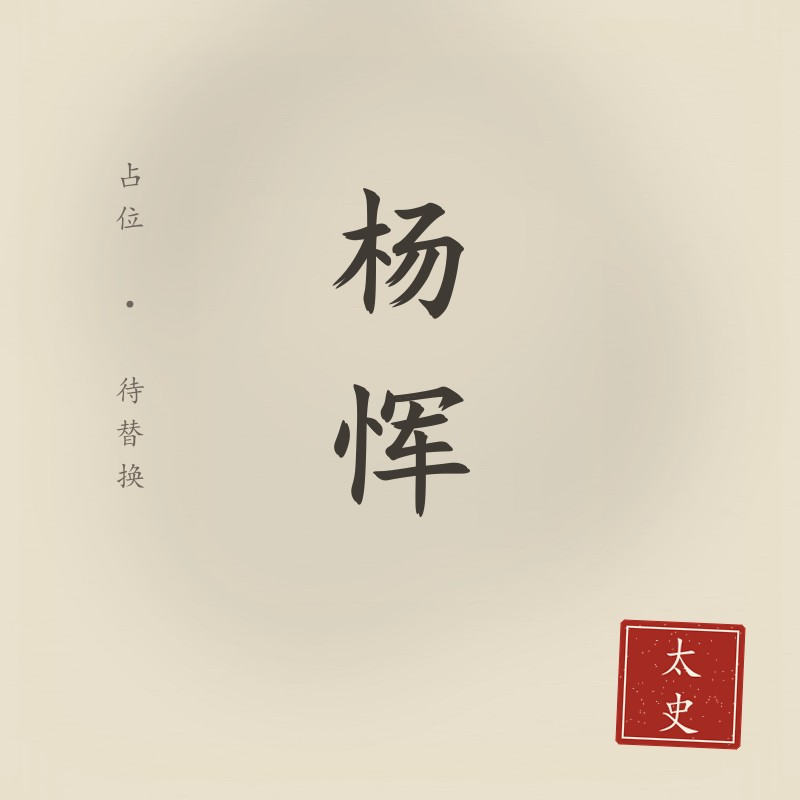
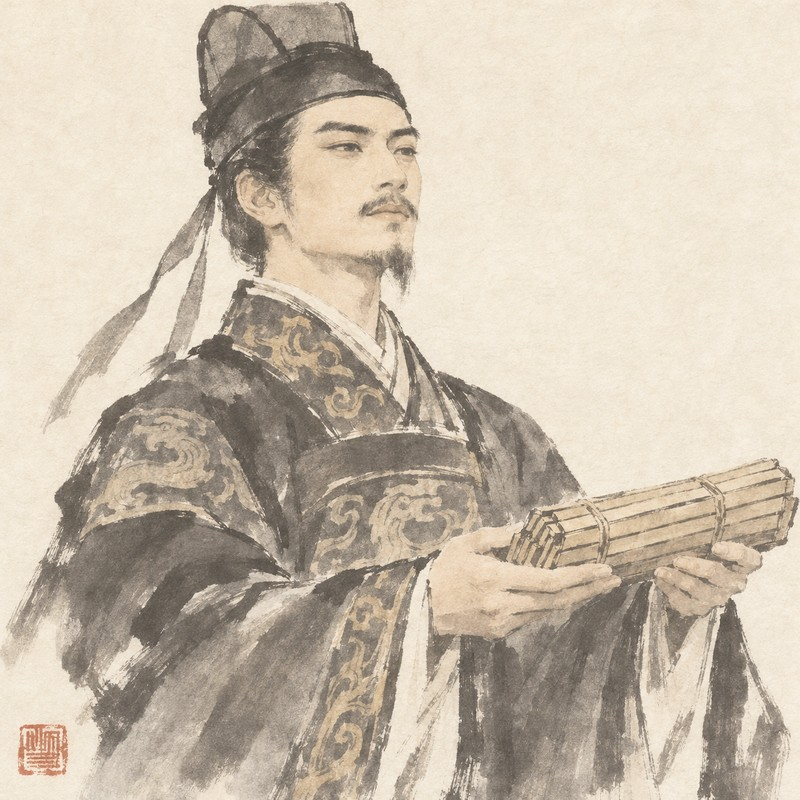
美术：首批 6 张场景图 + 杨恽立绘入库（调色适配），新增 art_grade 工具
- assets/scene/L1 L2A L3 A1 A2 A3（1920×1080）+ assets/webp/scene/*.webp
- assets/char/char_yangyun.jpg 换成真立绘 + webp
- tools/art_grade.py：按节点目标中间调做 gamma 提亮、降饱和、冷暗部/暖高光分区调色、
  轻对比/暗角；人物卡单独向现有 6 张宣纸纸色靠
- tools/art-batch-map.json：本批出图→节点 id 映射与调色目标
- js/data/scene-art.js：清单 6/22；其余 16 页继续回退共用背景
- docs/art-brief.md / README：补调色步骤与新体积（38 张 14.95MB→6.42MB，省 57.1%）

diff --git a/js/data/scene-art.js b/js/data/scene-art.js
@@ -11,6 +11,26 @@
       "L1": {
         "jpg": "assets/scene/L1.jpg",
         "webp": "assets/webp/scene/L1.webp"
+      },
+      "L2A": {
+        "jpg": "assets/scene/L2A.jpg",
+        "webp": "assets/webp/scene/L2A.webp"
+      },
+      "L3": {
+        "jpg": "assets/scene/L3.jpg",
+        "webp": "assets/webp/scene/L3.webp"
+      },
+      "A1": {
+        "jpg": "assets/scene/A1.jpg",
+        "webp": "assets/webp/scene/A1.webp"
+      },
+      "A2": {
+        "jpg": "assets/scene/A2.jpg",
+        "webp": "assets/webp/scene/A2.webp"
+      },
+      "A3": {
+        "jpg": "assets/scene/A3.jpg",
+        "webp": "assets/webp/scene/A3.webp"
       }
     },
     "webp": {
@@ -45,7 +65,12 @@
       "assets/ending/ending_12.jpg": "assets/webp/ending/ending_12.webp",
       "assets/ending/ending_13.jpg": "assets/webp/ending/ending_13.webp",
       "assets/mural.jpg": "assets/webp/mural.webp",
+      "assets/scene/A1.jpg": "assets/webp/scene/A1.webp",
+      "assets/scene/A2.jpg": "assets/webp/scene/A2.webp",
+      "assets/scene/A3.jpg": "assets/webp/scene/A3.webp",
       "assets/scene/L1.jpg": "assets/webp/scene/L1.webp",
+      "assets/scene/L2A.jpg": "assets/webp/scene/L2A.webp",
+      "assets/scene/L3.jpg": "assets/webp/scene/L3.webp",
       "assets/title.jpg": "assets/webp/title.webp"
     }
   };

diff --git a/tools/art_grade.py b/tools/art_grade.py
@@ -1,0 +1,179 @@
+#!/usr/bin/env python3
+# -*- coding: utf-8 -*-
+"""美术资产调色/归一化（开发期工具，Pillow + numpy）。
+
+作者用 GPT 出的图往往比项目现有背景更暗、更暖、更"新"，直接入库会在
+页面切换时跳色。这个脚本做两件事：
+
+  1. 归一化：场景图中心裁切到 16:9 → 1920×1080；人物卡中心裁切 800×800。
+  2. 调色（只动颜色，不动构图）：
+     - 按 id 指定目标中间调，做 gamma 提亮/压暗（默认只对偏暗的图提亮）；
+     - 轻微降饱和（向亮度混合，保留火盆/灯的暖色）；
+     - 冷暗部 / 暖高光的分区调色，贴近现有 bg 的冷青灰 + 暖灯金；
+     - 很轻的对比、S 曲线、暗角，以及高光滚降。
+  3. 可选 --install：把结果写进 assets/scene/<id>.jpg 与 assets/char/。
+
+用法（项目根运行）：
+    python tools/art_grade.py                 # 只输出到 analysis/graded 预览
+    python tools/art_grade.py --install       # 预览 + 写入项目 assets
+    python tools/art_grade.py --src "D:/新图" --map tools/art-batch-map.json
+
+映射文件 art-batch-map.json：
+    [
+      {"file": "ChatGPT ...png", "id": "L2A", "type": "scene", "target_p50": 0.22},
+      {"file": "...", "id": "yangyun", "type": "char"},
+      {"file": "...", "id": "L1", "skip": true}
+    ]
+"""
+import argparse
+import json
+import os
+import shutil
+import sys
+
+import numpy as np
+from PIL import Image, ImageOps
+
+ROOT = os.path.dirname(os.path.dirname(os.path.abspath(__file__)))
+DEFAULT_MAP = os.path.join(ROOT, 'tools', 'art-batch-map.json')
+DEFAULT_OUT = os.path.join(ROOT, 'analysis', 'graded')
+
+
+def luma(rgb):
+    return 0.299 * rgb[:, :, 0] + 0.587 * rgb[:, :, 1] + 0.114 * rgb[:, :, 2]
+
+
+def smoothstep(x, a, b):
+    t = np.clip((x - a) / max(b - a, 1e-6), 0.0, 1.0)
+    return t * t * (3 - 2 * t)
+
+
+def grade_scene(im, target_p50=0.18, strength=1.0):
+    """只调色：曝光、去饱和、冷暗部/暖高光、轻对比与暗角。"""
+    a = np.asarray(im.convert('RGB')).astype(np.float32) / 255.0
+    L = luma(a)
+    p50 = float(np.percentile(L, 50))
+    # 1) 以中间调为锚的 gamma 提亮/压暗（blend 避免过冲）
+    if p50 > 1e-3 and target_p50 > 0:
+        gamma = np.log(target_p50) / np.log(max(p50, 0.02))
+        gamma = float(np.clip(gamma, 0.55, 1.8))
+        gamma = 1.0 + (gamma - 1.0) * 0.75 * strength
+        a = np.clip(a, 0, 1) ** gamma
+    # 2) 轻微降饱和（保留高饱和暖色区域）
+    L2 = luma(a)[:, :, None]
+    a = L2 + (a - L2) * (1.0 - 0.20 * strength)
+    # 3) 冷暗部 / 暖高光的分区调色
+    L3 = luma(a)
+    shadow = (1.0 - smoothstep(L3, 0.0, 0.42))[:, :, None]
+    high = smoothstep(L3, 0.55, 1.0)[:, :, None]
+    a = a + shadow * np.array([-0.010, -0.001, 0.020], np.float32) * strength
+    a = a + high * np.array([0.014, 0.004, -0.010], np.float32) * strength
+    # 4) 轻对比 + 高光滚降
+    a = (a - 0.45) * (1.0 + 0.035 * strength) + 0.45
+    a = 1.0 - np.power(np.clip(1.0 - a, 0, 1), 1.02)
+    # 5) 很轻的暗角
+    h, w = a.shape[:2]
+    yy, xx = np.mgrid[0:h, 0:w].astype(np.float32)
+    cx, cy = (w - 1) / 2.0, (h - 1) / 2.0
+    r = np.sqrt(((xx - cx) / cx) ** 2 + ((yy - cy) / cy) ** 2)
+    vig = 1.0 - np.clip((r - 0.55) / 0.95, 0, 1) ** 2 * 0.16 * strength
+    a = a * vig[:, :, None]
+    return Image.fromarray((np.clip(a, 0, 1) * 255).astype(np.uint8), 'RGB')
+
+
+def grade_char(im, strength=1.0):
+    """人物卡：宣纸暖白底 + 淡彩，向现有 6 张卡的纸色/亮度靠。"""
+    a = np.asarray(im.convert('RGB')).astype(np.float32) / 255.0
+    L = luma(a)
+    p50 = float(np.percentile(L, 50))
+    # 纸底提亮（现有卡 p50 约 0.85–0.90）
+    if p50 > 1e-3:
+        gamma = np.log(0.87) / np.log(max(p50, 0.02))
+        gamma = float(np.clip(gamma, 0.6, 1.6))
+        gamma = 1.0 + (gamma - 1.0) * 0.7 * strength
+        a = np.clip(a, 0, 1) ** gamma
+    # 纸色：现有卡 mean 约 (200,190,175)
+    m = a.reshape(-1, 3).mean(axis=0)
+    target = np.array([0.784, 0.745, 0.686], np.float32)  # 200,190,175 / 255
+    if m.min() > 1e-3:
+        gain = np.clip(target / m, 0.75, 1.35)
+        a = np.clip(a * (1.0 + (gain - 1.0) * 0.65 * strength), 0, 1)
+    # 轻微降饱和，保留墨色层次
+    L2 = luma(a)[:, :, None]
+    a = L2 + (a - L2) * (1.0 - 0.10 * strength)
+    # 轻对比 + 纸面暖调
+    a = (a - 0.5) * (1.0 + 0.03 * strength) + 0.5
+    a = a + np.array([0.006, 0.002, -0.006], np.float32) * strength
+    return Image.fromarray((np.clip(a, 0, 1) * 255).astype(np.uint8), 'RGB')
+
+
+def normalize_scene(im):
+    return ImageOps.fit(im.convert('RGB'), (1920, 1080), method=Image.LANCZOS, centering=(0.5, 0.5))
+
+
+def normalize_char(im):
+    return ImageOps.fit(im.convert('RGB'), (800, 800), method=Image.LANCZOS, centering=(0.5, 0.5))
+
+
+def stat_line(label, im):
+    a = np.asarray(im.convert('RGB')).astype(np.float32) / 255.0
+    L = luma(a)
+    p5, p50, p95 = np.percentile(L, [5, 50, 95])
+    hsv = np.asarray(im.convert('HSV')).astype(np.float32)
+    return ('%s  meanRGB=(%3.0f,%3.0f,%3.0f) S=%3.0f V=%3.0f  L p5/p50/p95=%.2f/%.2f/%.2f' % (
+        label, a[:, :, 0].mean() * 255, a[:, :, 1].mean() * 255, a[:, :, 2].mean() * 255,
+        hsv[:, :, 1].mean(), hsv[:, :, 2].mean(), p5, p50, p95))
+
+
+def main():
+    ap = argparse.ArgumentParser()
+    ap.add_argument('--src', default=r'C:\Users\CuteGrass\Desktop\assest', help='作者出图的源目录')
+    ap.add_argument('--map', default=DEFAULT_MAP, help='映射 json')
+    ap.add_argument('--out', default=DEFAULT_OUT, help='预览输出目录')
+    ap.add_argument('--install', action='store_true', help='把结果写入 assets/scene 与 assets/char')
+    ap.add_argument('--strength', type=float, default=1.0, help='调色强度 0–1.5，默认 1')
+    args = ap.parse_args()
+
+    with open(args.map, encoding='utf-8') as f:
+        mapping = json.load(f)
+    os.makedirs(args.out, exist_ok=True)
+
+    scene_dir = os.path.join(ROOT, 'assets', 'scene')
+    char_dir = os.path.join(ROOT, 'assets', 'char')
+    os.makedirs(scene_dir, exist_ok=True)
+    os.makedirs(char_dir, exist_ok=True)
+
+    for item in mapping:
+        if item.get('skip'):
+            print('跳过（已入库/已认可）:', item.get('file'))
+            continue
+        src = os.path.join(args.src, item['file'])
+        if not os.path.exists(src):
+            print('  [缺失]', src)
+            continue
+        im = Image.open(src)
+        before = im.copy()
+        if item.get('type') == 'char':
+            out = grade_char(normalize_char(im), args.strength)
+        else:
+            out = grade_scene(normalize_scene(im), float(item.get('target_p50', 0.18)), args.strength)
+        print('  ' + stat_line('before ' + str(item.get('id')), before))
+        print('  ' + stat_line('after  ' + str(item.get('id')), out))
+        if item.get('type') == 'char':
+            name = 'char_%s.jpg' % item.get('id', 'unknown')
+            dst_dir = char_dir
+        else:
+            name = '%s.jpg' % item.get('id', 'unknown')
+            dst_dir = scene_dir
+        preview = os.path.join(args.out, name)
+        out.save(preview, 'JPEG', quality=92, optimize=True)
+        if args.install:
+            out.save(os.path.join(dst_dir, name), 'JPEG', quality=90, optimize=True)
+            print('  -> 写入', os.path.join(dst_dir, name))
+    print('\n预览目录:', args.out)
+    if args.install:
+        print('已写入项目 assets。接下来跑：python tools/art_pipeline.py --scan --optimize --report')
+
+
+if __name__ == '__main__':
+    sys.exit(main())

diff --git a/analysis/update-targets.py b/analysis/update-targets.py
@@ -1,0 +1,9 @@
+import json
+p = r"tools\art-batch-map.json"
+m = json.load(open(p, encoding="utf-8"))
+targets = {"L2A":0.23, "L3":0.19, "A1":0.27, "A2":0.22, "A3":0.21}
+for item in m:
+    if item.get("id") in targets:
+        item["target_p50"] = targets[item["id"]]
+json.dump(m, open(p, "w", encoding="utf-8"), ensure_ascii=False, indent=2)
+print("targets updated")

diff --git a/analysis/include-l1.py b/analysis/include-l1.py
@@ -1,0 +1,9 @@
+import json
+p = r"tools\art-batch-map.json"
+m = json.load(open(p, encoding="utf-8"))
+for item in m:
+    if item.get("id") == "L1":
+        item.pop("skip", None)
+        item["target_p50"] = 0.20
+json.dump(m, open(p, "w", encoding="utf-8"), ensure_ascii=False, indent=2)
+print("L1 included")

diff --git a/README.md b/README.md
@@ -122,9 +122,11 @@ server/
   .env.example        环境变量样例（复制为 .env）
 tools/
   art_pipeline.py     美术资产管线（开发期，Python+Pillow）：校验/归一化/WebP/清单
+  art_grade.py        批量调色（开发期）：把 GPT 出图调成项目的冷青灰 + 暖灯金
+  art-batch-map.json  本批出图 → 节点 id 的映射与调色目标
 assets/
-  bg/ char/ ending/   现有 31 张图（jpg 兜底）+ assets/webp/ 对应的 WebP
-  scene/              22 张场景插画位（当前为空，缺图回退 bg/ 的 10 张共用背景）
+  bg/ char/ ending/   现有 38 张图（jpg 兜底）+ assets/webp/ 对应的 WebP
+  scene/              22 张场景插画位（已就位 L1/L2A/L3/A1/A2/A3，其余回退 bg/ 共用背景）
 docs/
   review-2026-11.md   接手时的完整代码审查报告（历史快照）
   history-factcheck.md 史实线逐条考据报告（含出处、争议项与"未能核实"清单）
@@ -229,10 +231,10 @@ npm test
 
 ## 八、接手备注 / 已知限制
 
-- 项目刻意保持**零依赖、无构建**：加测试也只用 `node:test`；不要为了一个小功能引入打包器。`tools/art_pipeline.py` 只在开发期用 Python+Pillow，运行时不依赖。
+- 项目刻意保持**零依赖、无构建**：加测试也只用 `node:test`；不要为了一个小功能引入打包器。`tools/art_pipeline.py`、`tools/art_grade.py` 只在开发期用 Python+Pillow，运行时不依赖。
 - 代码注释里引用的 `docs/04-决策基线`、`docs/07-美术需求清单` 等资料**不在本仓库**（项目从更大的制作目录抽出来）。历史背景以代码与 `anchors.js` 为准。
-- 剧本节点 `art` 字段指向 `assets/scene/*.jpg`，这 22 张场景插画**尚未就位**：`bgPath()` 会优先读 `js/data/scene-art.js` 清单，没有登记就回退 `NODE_BG` 的 10 张共用背景。提示词与替换流程见 `docs/art-brief.md`；出图后跑一次 `tools/art_pipeline.py` 即可，无需改代码。
-- 人物档案已补第 7 张「杨恽」卡，但立绘是程序生成的临时占位（水墨宣纸底+字样）；真图同名覆盖 `assets/char/char_yangyun.jpg` 即可。武将/后宫等配角仍无立绘。
+- 剧本节点 `art` 字段指向 `assets/scene/*.jpg`：22 张场景插画**已就位 6 张**（L1/L2A/L3/A1/A2/A3），其余 16 页由 `bgPath()` 回退 `NODE_BG` 的共用背景。出图 → 调色 → 入库的完整流程见 `docs/art-brief.md`，无需改代码。
+- 人物档案 7 张卡齐全（杨恽立绘已换成真图）。杨恽冠式是偏晚的幞头样式，历史考据上可再改；其余 6 张立绘未动。
 - 模型输出质量依赖 `server/prompt.mjs` 的锚点与输出校验；改提示词后请跑 `npm test` 并至少手测一次在线自书（可行 / 越界 / 校验重写三条路径）。
 - 内容口径：白话为主、半文言点缀；史实线贴合《史记·太史公自序》《报任安书》《汉书·司马迁传》，虚构只发生在史实留白处。逐条考据与出处见 `docs/history-factcheck.md`；生年、《报任安书》作年等争议项在 `anchors.disputes` 里写明"两说并存、不得写死"。
 - 本仓库未声明开源许可证；对外分发或二次开发前请先与作者确认。
@@ -282,9 +284,10 @@ npm test
 ## 十一、v1.3 美术资产管线（2026-11）
 
 - **提示词**：`docs/art-brief.md` 给出 22 张场景插画 + 杨恽立绘的 GPT 提示词，按 OpenAI 官方 Image prompting 指南的 Scene / Subject / Composition / Light / Style / Constraints 结构写，含参考图角色、短版模板、翻车修正话术与验收清单。
-- **替换流程**：图片按 `assets/scene/<节点id>.jpg` 命名丢进去 → `python tools/art_pipeline.py --normalize --scan --optimize` → 刷新页面。脚本自动归一化到 1920×1080、生成 WebP、重写 `js/data/scene-art.js` 清单；没登记的页面继续用共用背景，可增量替换。
-- **WebP**：现有 31 张 JPG（12.81 MB）转出 WebP 5.56 MB，省 **56.6%**；前端 `<picture>` 优先 WebP、JPG 兜底，图鉴母图用 CSS `image-set()`。
-- **杨恽**：人物档案第 7 张卡已补（`characters.js` + `char_yangyun.jpg` 占位立绘），真图同名覆盖即可。
+- **调色**：GPT 出图通常比现有背景更暗、更暖，直接入库会在页面切换时跳色。`tools/art_grade.py` 负责批量适配：按节点指定目标中间调做 gamma 提亮、轻微降饱和、冷暗部/暖高光分区调色、轻对比与暗角；人物卡单独向现有 6 张的宣纸纸色/亮度靠。映射与目标写在 `tools/art-batch-map.json`。
+- **替换流程**：图片放源目录 → 编辑映射 → `python tools/art_grade.py --install` → `python tools/art_pipeline.py --normalize --scan --optimize` → 刷新页面。脚本自动归一化到 1920×1080、生成 WebP、重写 `js/data/scene-art.js` 清单；没登记的页面继续用共用背景，可增量替换。
+- **首批已入库 6 张**：L1 朝议、L2A 议罪、L3 生死抉择、A1 世态炎凉、A2 武帝审查、A3 任安之信；杨恽立绘同时换成真图。
+- **WebP**：现有 38 张 JPG（14.95 MB）转出 WebP 6.42 MB，省 **57.1%**；前端 `<picture>` 优先 WebP、JPG 兜底，图鉴母图用 CSS `image-set()`。
 - 测试新增 `tests/art.test.mjs`（清单/文件存在性/WebP 成对/人物卡/结局图/加载顺序/`<picture>` 与回退），`npm test` 现为 **72 项**。
 
 ---

diff --git a/docs/art-brief.md b/docs/art-brief.md
@@ -392,12 +392,21 @@ No text, no watermark, no modern objects.
 
 ---
 
-## 六、存图与上线（两步）
+## 六、存图与上线（三步）
 
-1. 按上面文件名存图：
+1. 按上面文件名存图（成批出图时先放一个源目录即可）：
    - 场景 → `assets/scene/<id>.jpg`（`P1.jpg`…`R1.jpg`，共 22 个）
    - 杨恽 → `assets/char/char_yangyun.jpg`
-2. 项目根运行（需要 Python + Pillow；脚本说明见 `tools/art_pipeline.py` 头部）：
+2. **调色**（GPT 出图通常比现有背景更暗、更暖，直接入库会跳色）：编辑 `tools/art-batch-map.json`，把这一批的「源文件名 → 节点 id → 目标中间调」写进去，然后：
+
+```bash
+python tools/art_grade.py --install
+```
+
+脚本会：中心裁切到 16:9 / 1920×1080（人物 800×800）→ 按目标提亮中间调 → 轻微降饱和 → 冷暗部/暖高光分区调色 → 轻对比/暗角 → 写入 `assets/scene/`（人物写 `assets/char/`）。
+场景的 `target_p50` 参考：雪景/夜谈 0.20–0.27，牢房/暗室 0.16–0.19；人物卡不用填（有单独的人物卡调色）。
+
+3. **入库/出 WebP/更新清单**（需要 Python + Pillow；脚本说明见 `tools/art_pipeline.py` 头部）：
 
 ```bash
 # 图已经是 1920×1080 的 jpg：校验 + 出 WebP + 更新清单
@@ -412,7 +421,9 @@ python tools/art_pipeline.py --all
 ```
 
 脚本会：校验命名 → 中心裁切/缩放到 1920×1080（角色 800×800）→ 生成 `assets/webp/` → 重写 `js/data/scene-art.js` 清单。**刷新页面即可，不用改代码。**
-只出了 L1/L2A/L3/A1/A2/A3 六张也能先跑——其余页面自动回退原来 10 张共用背景。
+只出了几张也能先跑——其余页面自动回退原来 10 张共用背景。
+
+> 首批（L1/L2A/L3/A1/A2/A3 + 杨恽）已按这个流程入库；`tools/art-batch-map.json` 里保留了这一批的映射与目标值，下一批照抄改文件名即可。
 
 ---
 
